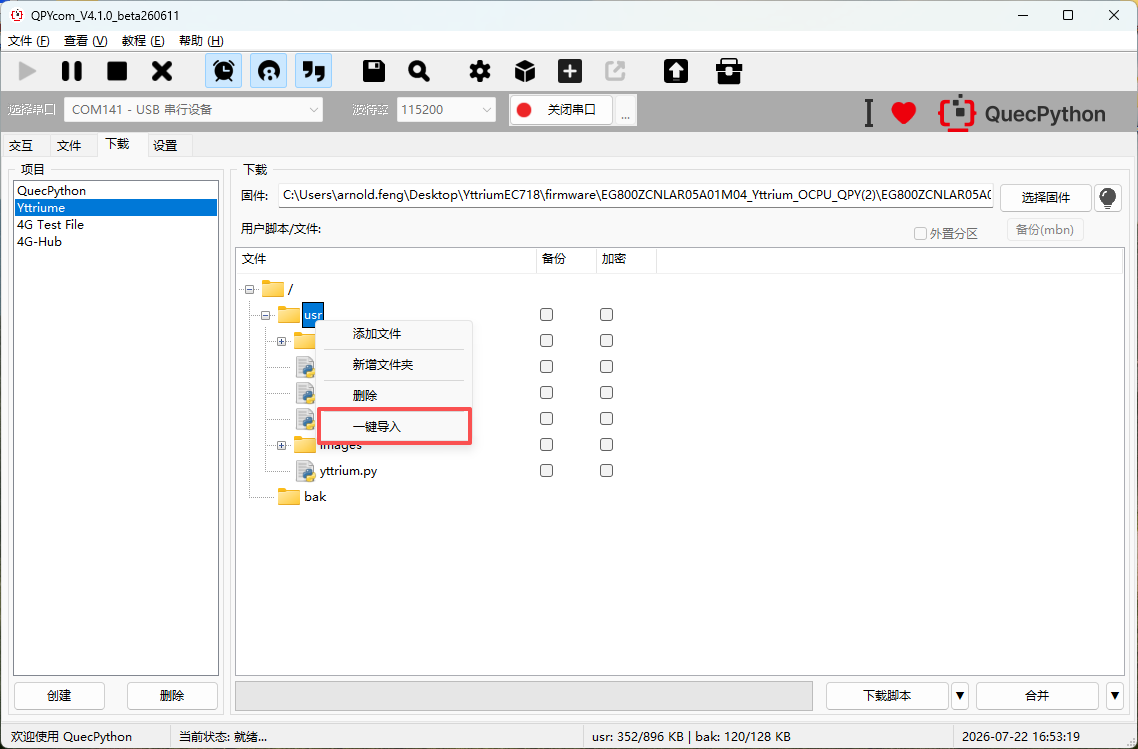
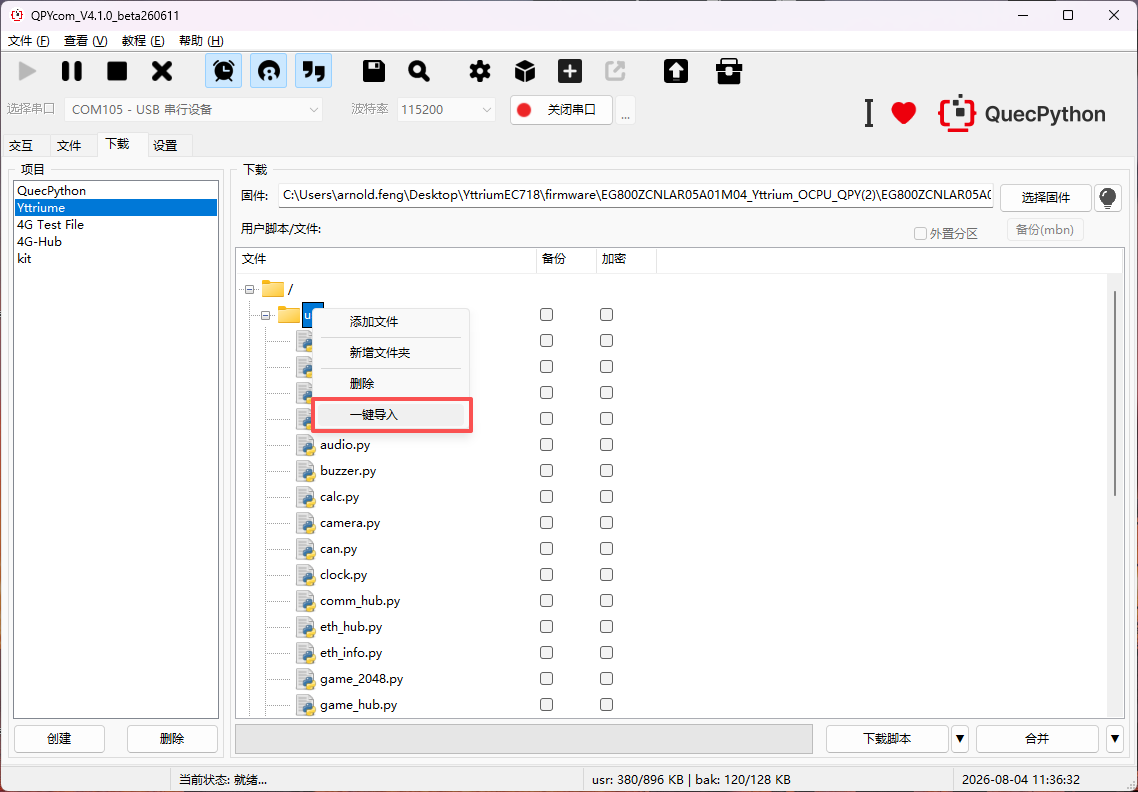
docs: 更新03章，同步代码文件结构和启动命令的变更

diff --git a/docs/03_runDemo/README.md b/docs/03_runDemo/README.md
@@ -9,7 +9,7 @@
 | 开发板 | 已烧录 QuecPython 固件（参考 [02_firmwareFlashing](../02_firmwareFlashing/README.md)） |
 | PC 工具 | QPYCOM（QuecPython 串口交互工具） |
 | 硬件连接 | 开发板通过 USB 线连接至 PC |
-| 代码文件 | `src/yttrium.py` + `icons/` + `images/` |
+| 代码文件 | `src/` 下所有 `.py` 文件 + `icons/` + `images/` |
 
 ## QPYCOM 连接设备
 
@@ -65,13 +65,40 @@ hello world
 
 ```
 U:/
-├── yttrium.py       # 主应用
+├── _main.py         # 入口文件（PAGE_MAP + MainScreen + YttriumApp）
+├── app_base.py      # AppPage 基类
+├── led.py           # LED 控制
+├── clock.py         # 时钟
+├── adc.py           # ADC 仪表盘
+├── calc.py          # 计算器
+├── comm_hub.py      # 通信协议 Hub
+├── uart.py          # UART 终端
+├── can.py           # CAN 终端
+├── at.py            # AT 终端
+├── rs485.py         # RS485 终端
+├── game_hub.py      # 游戏 Hub
+├── snake.py         # 贪吃蛇
+├── game_2048.py     # 2048
+├── tetris.py        # 俄罗斯方块
+├── qr_shop.py       # 饮品选购
+├── audio.py         # 录音播放
+├── usb_browser.py   # U 盘浏览器
+├── phone.py         # 电话拨号
+├── eth_hub.py       # 以太网 Hub
+├── eth_info.py      # 网络信息
+├── ping.py          # Ping 工具
+├── tcp.py           # TCP 客户端
+├── buzzer.py        # 蜂鸣器
+├── weather.py       # 天气
+├── keyboard.py      # 虚拟键盘
+├── camera.py        # 摄像头
+├── scan.py          # 扫码
 ├── icons/           # 图标资源（48×48 PNG，~50 个）
 └── images/          # 商品图片（100×70，8 张）
 ```
 
 ## 启动 Demo
-- 直接右键yttrimu.py运行代码
+- 直接右键 `_main.py` 运行代码
 
 ![alt text](image-6.png)
 
@@ -79,7 +106,7 @@ U:/
 
 ```python
 >>> import example
->>> example.exec('/usr/yttrium.py')
+>>> example.exec('/usr/_main.py')
 ```
 
 开发板 LCD 将显示 **YttriumEC718** 主界面——5×3 图标网格，触摸点击进入各功能页面。
